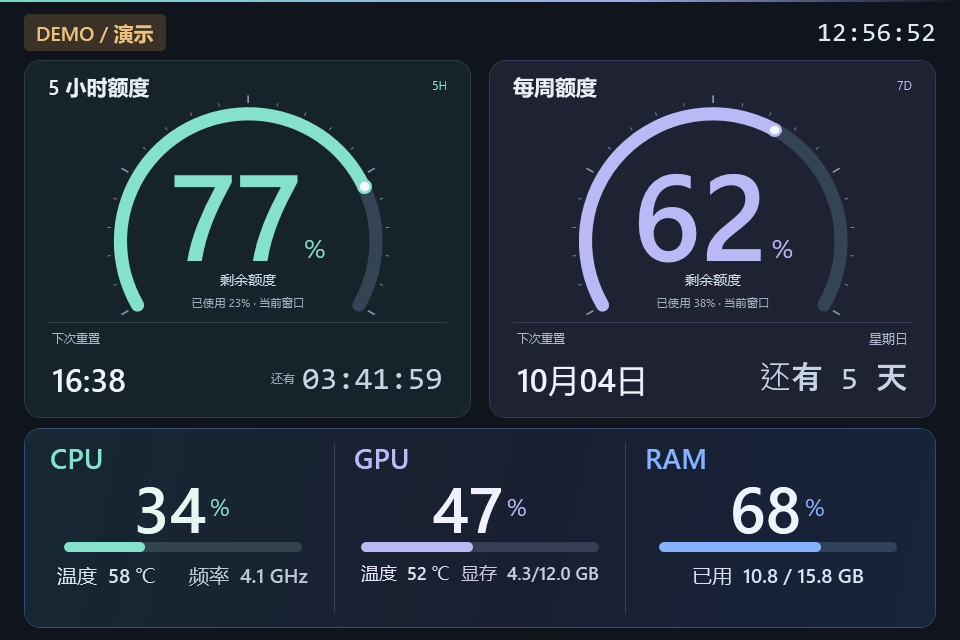
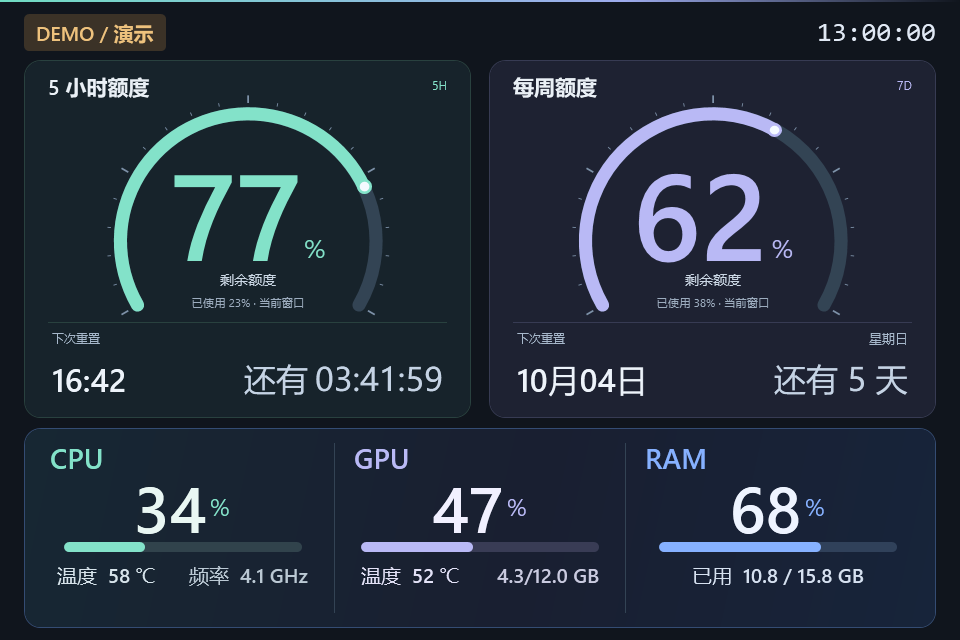
Unify countdown and GPU detail typography

diff --git a/Dashboard.xaml b/Dashboard.xaml
@@ -70,8 +70,8 @@
                   <TextBlock x:Name="ShortResetDate" Visibility="Collapsed"/>
                   <TextBlock x:Name="ShortReset" Grid.Row="1" Text="--" FontSize="32" FontWeight="Medium" Foreground="#EDF3FA" VerticalAlignment="Center"/>
                   <StackPanel Grid.Row="1" Orientation="Horizontal" HorizontalAlignment="Right" VerticalAlignment="Center">
-                    <TextBlock x:Name="ShortCountdownLead" Text="还有" FontSize="12" Foreground="#93A6BD" VerticalAlignment="Center" Margin="0,0,7,0"/>
-                    <TextBlock x:Name="ShortCountdown" Text="--" FontSize="32" FontWeight="Medium" FontFamily="Consolas" Foreground="#C5D3E4" VerticalAlignment="Center"/>
+                    <TextBlock x:Name="ShortCountdownLead" Text="还有" FontSize="32" FontWeight="Medium" FontFamily="Microsoft YaHei UI" Foreground="#C5D3E4" VerticalAlignment="Center" Margin="0,0,7,0"/>
+                    <TextBlock x:Name="ShortCountdown" Text="--" FontSize="32" FontWeight="Medium" FontFamily="Microsoft YaHei UI" Foreground="#C5D3E4" VerticalAlignment="Center"/>
                   </StackPanel>
                 </Grid>
               </Border>
@@ -96,8 +96,8 @@
                   <TextBlock x:Name="WeekResetDate" Text="本地时间" FontSize="13" Foreground="#A7B8CB" HorizontalAlignment="Right"/>
                   <TextBlock x:Name="WeekReset" Grid.Row="1" Text="--" FontSize="32" FontWeight="Medium" Foreground="#EDF3FA" VerticalAlignment="Center"/>
                   <StackPanel Grid.Row="1" Orientation="Horizontal" HorizontalAlignment="Right" VerticalAlignment="Center">
-                    <TextBlock x:Name="WeekCountdownLead" Text="还有" FontSize="12" Foreground="#93A6BD" VerticalAlignment="Center" Margin="0,0,7,0"/>
-                    <TextBlock x:Name="WeekCountdown" Text="--" FontSize="32" FontWeight="Medium" FontFamily="Consolas" Foreground="#C5D3E4" VerticalAlignment="Center"/>
+                    <TextBlock x:Name="WeekCountdownLead" Text="还有" FontSize="32" FontWeight="Medium" FontFamily="Microsoft YaHei UI" Foreground="#C5D3E4" VerticalAlignment="Center" Margin="0,0,7,0"/>
+                    <TextBlock x:Name="WeekCountdown" Text="--" FontSize="32" FontWeight="Medium" FontFamily="Microsoft YaHei UI" Foreground="#C5D3E4" VerticalAlignment="Center"/>
                   </StackPanel>
                 </Grid>
               </Border>
@@ -141,8 +141,8 @@
                 <Border x:Name="GpuFill" Width="0" CornerRadius="5" Background="#B9B9F5" HorizontalAlignment="Left"/>
               </Border>
               <Grid Grid.Row="3" Margin="7,8,7,0">
-                <TextBlock x:Name="GpuTemp" Text="温度  -- ℃" FontSize="18" FontWeight="Medium" Foreground="#E3E2F7" HorizontalAlignment="Left"/>
-                <TextBlock x:Name="GpuMemory" Text="显存  --" FontSize="18" FontWeight="Medium" Foreground="#CACBE0" HorizontalAlignment="Right"/>
+                <TextBlock x:Name="GpuTemp" Text="温度  -- ℃" FontSize="20" FontWeight="Medium" Foreground="#E3E2F7" HorizontalAlignment="Left"/>
+                <TextBlock x:Name="GpuMemory" Text="--" FontSize="20" FontWeight="Medium" Foreground="#CACBE0" HorizontalAlignment="Right"/>
               </Grid>
             </Grid>
 
